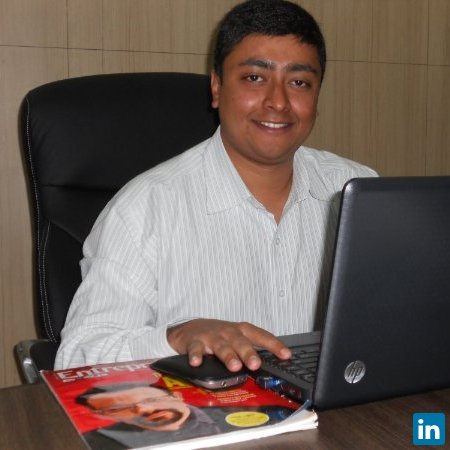
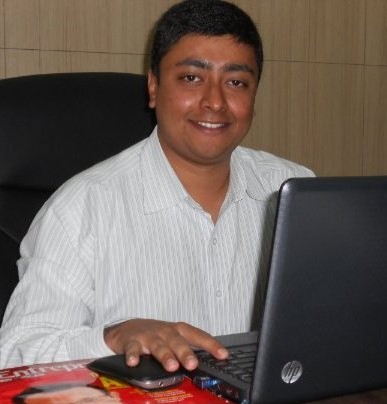
fgg
ggg

diff --git a/index.html b/index.html
@@ -487,7 +487,7 @@
           <div class="row">
             <div class="col-lg-4" data-aos="fade-right">
               <img
-                src="assets/img/testimonials/pending2.jpg"
+                src="assets/img/testimonials/Biren Shah.jpg"
                 class="img-fluid"
                 alt=""
               />
@@ -548,7 +548,7 @@
             </div>
             <div class="col-lg-4" data-aos="fade-right">
               <img
-                src="assets/img/testimonials/pending1.jpg"
+                src="assets/img/testimonials/Saurabh Shah.jpg"
                 class="img-fluid"
                 alt=""
               />
